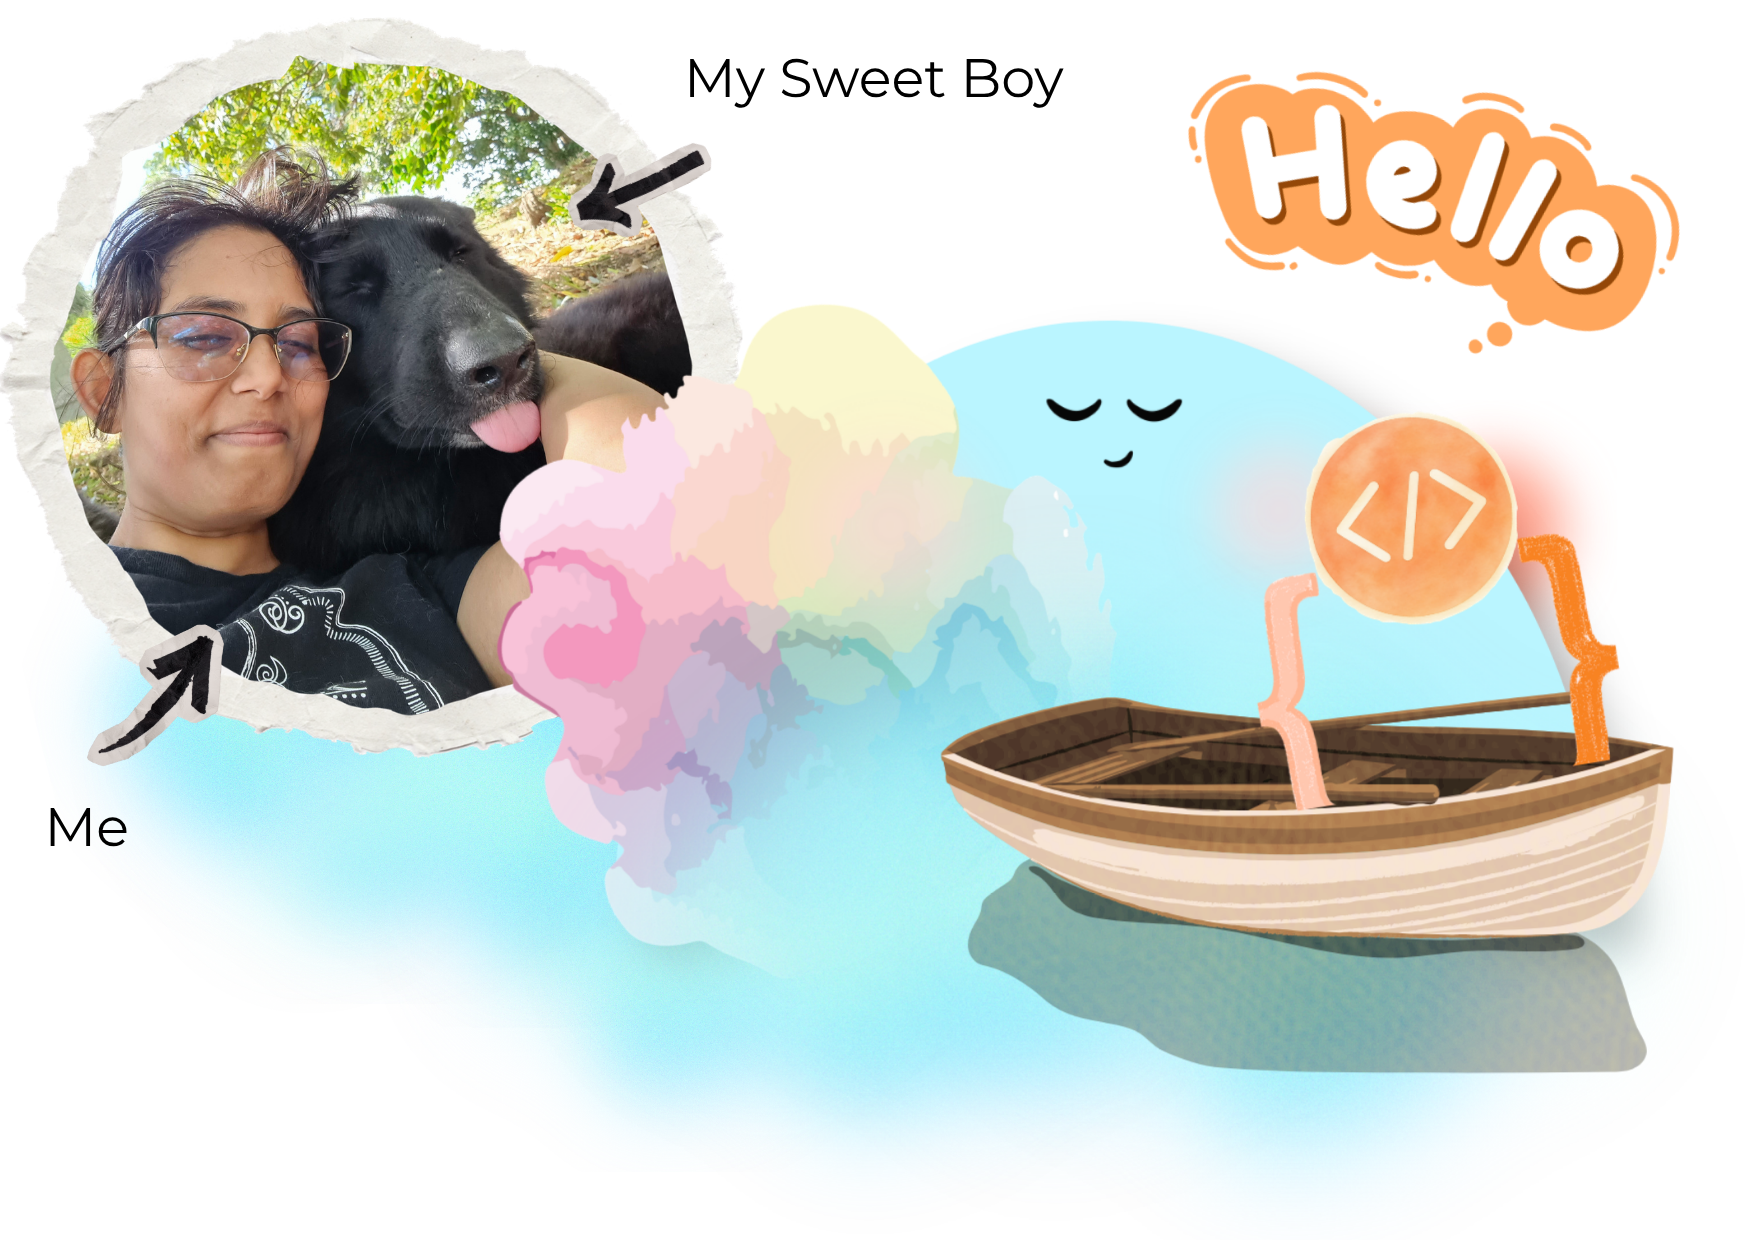
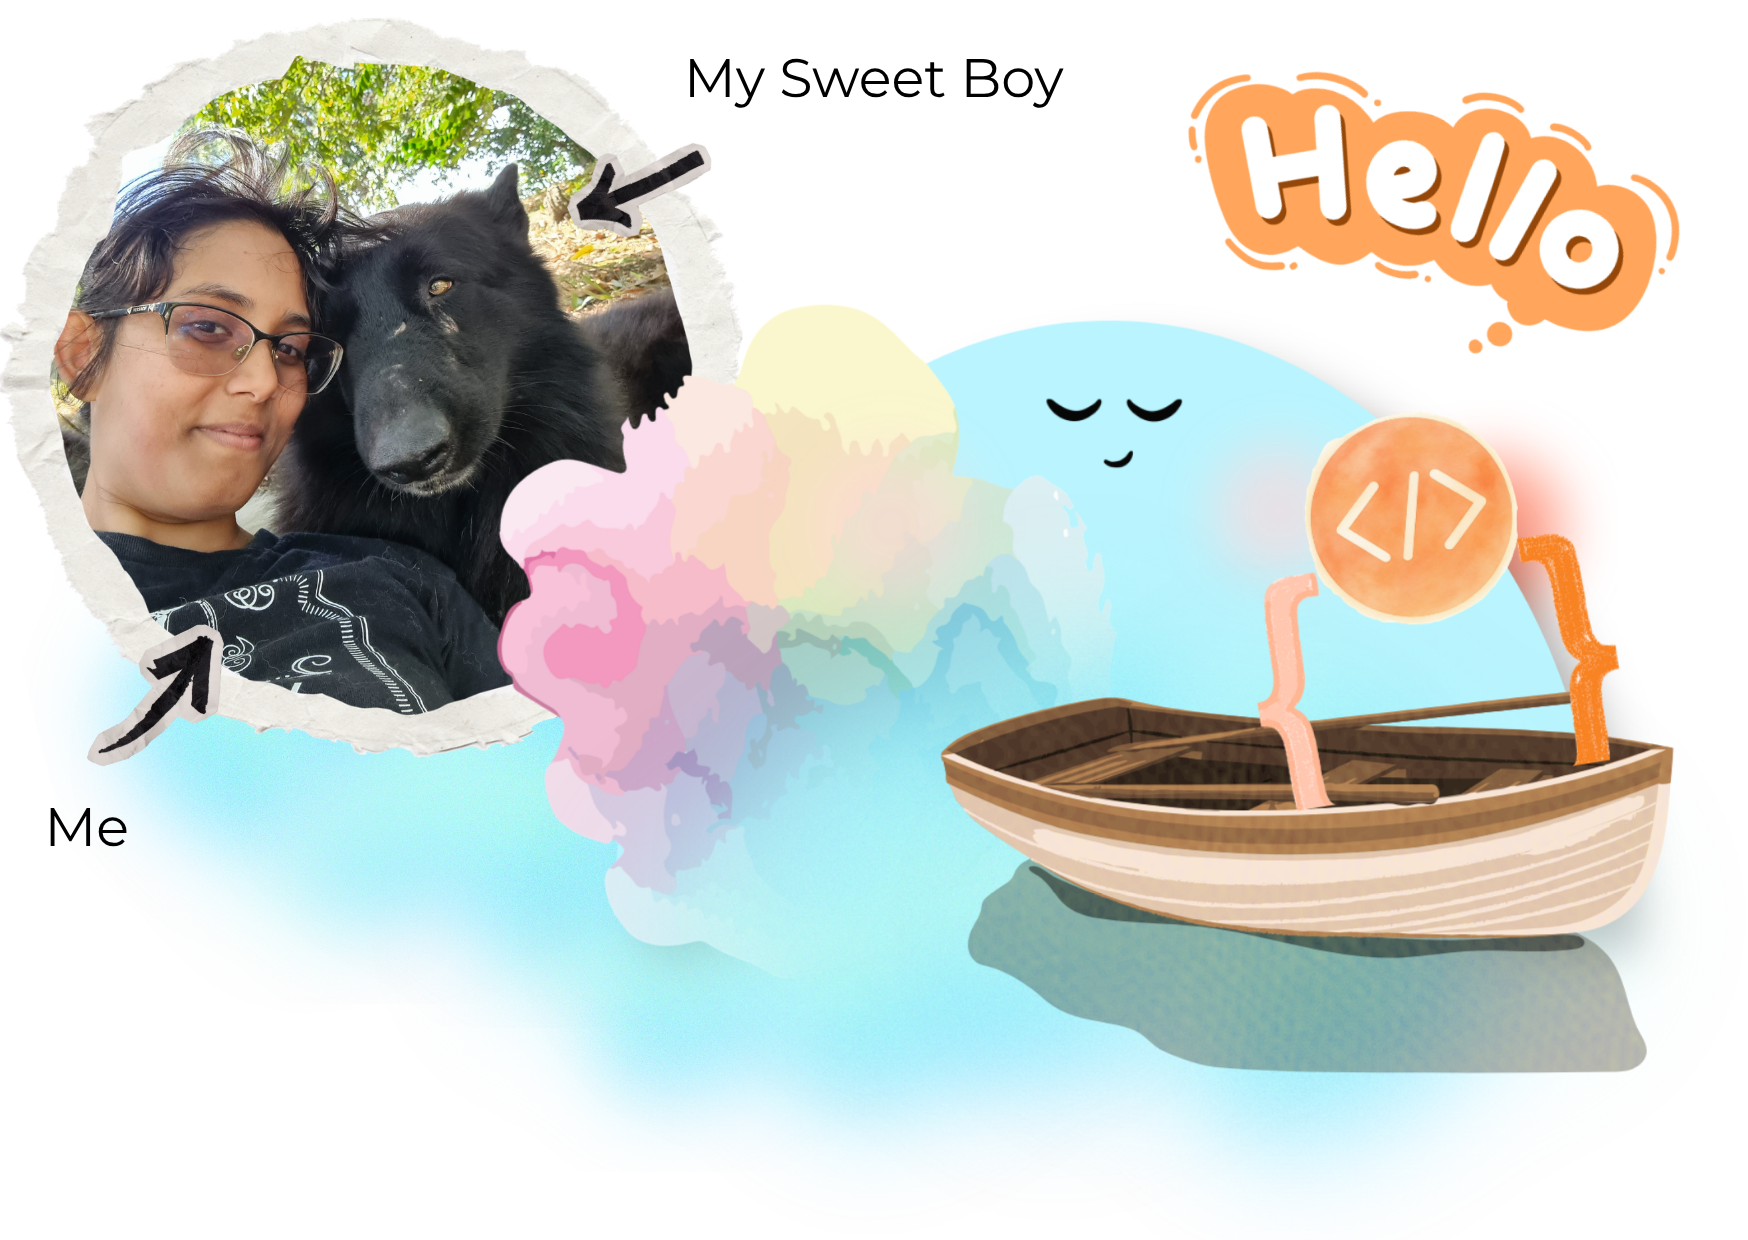
Updating the content for About

Changed region(s): [[0.0309, 0.0306, 0.4016, 0.5823]]

diff --git a/index.html b/index.html
@@ -43,23 +43,16 @@ https://github.com/hydecorp/hydejack/issues/63 -->
   </defs>
 </svg>
 
-  <div class="about-intro-action mb-1" style="text-align: center; line-height: 2.5;">
-    <span>Here is my story! Curious about my work?</span>
+  <!-- Top Call to Action -->
+  <div class="about-intro-action mb-1">
+    <span>Here is my story! Curious about my work? Take a look at my portfolio </span>
     
-    <span class="button--bubble__container">
-      <a href="/portfolio/" class="button button--bubble">
-        Take a look at my portfolio here.
+    <figure class="portfolio-btn-wrapper">
+      <a href="/portfolio/" class="portfolio-bounce-btn">
+        here!
       </a>
-      <span class="button--bubble__effect-container">
-        <span class="circle top-left"></span>
-        <span class="circle top-left"></span>
-        <span class="circle top-left"></span>
-        <span class="button effect-button"></span>
-        <span class="circle bottom-right"></span>
-        <span class="circle bottom-right"></span>
-        <span class="circle bottom-right"></span>
-      </span>
-    </span>
+      <div class="shadow"></div>
+    </figure>
   </div>
   
   <p class="mb-1">Hello! I'm Gabriela, a designer, software engineer, and storyteller residing in the gorgeous Trinidad and Tobago.</p>
@@ -76,7 +69,7 @@ https://github.com/hydecorp/hydejack/issues/63 -->
 
   <p class="mb-1">I find it wonderful being in the place where logic intersects with creativity. Thinking in terms of both user flows and the architecture of the backend system enables me to take a raw idea from the pages of a notebook and turn it into a fully functioning application.</p>
   
-  <p class="mb-1">Ever since 2019, I've had an immense pleasure working together with like-minded teams in order to produce digital products with real impact on people and planet. I have had the opportunity to design and build solutions across 8 distinct industries:</p>
+  <p class="mb-1">Since 2019, I've had an immense pleasure working together with like-minded teams in order to produce digital products with real impact on people and planet. I have had the opportunity to design and build solutions across 8 distinct industries:</p>
   
   <ul class="industry-pill-list">
     <li>Research & Development</li>
@@ -112,18 +105,18 @@ https://github.com/hydecorp/hydejack/issues/63 -->
           <span class="lines line-3"></span>
           </label>
 
-          <div class="menu-item blue"><span class="menu-text">Botany Fan</span></div>
-          <div class="menu-item green"><span class="menu-text">Psych Nerd</span></div>
-          <div class="menu-item purple"><span class="menu-text">Gentle Design</span></div>
-          <div class="menu-item orange"><span class="menu-text">Water-Baby</span></div>
-          <div class="menu-item lightblue"><span class="menu-text">T&T Creator</span></div>
-          <div class="menu-item red"><span class="menu-text">Animal Advocate</span></div>
+          <div class="menu-item blue"><span class="menu-text">Practicing Stillness</span></div>
+          <div class="menu-item green"><span class="menu-text">Empathy-Driven</span></div>
+          <div class="menu-item purple"><span class="menu-text">Consciousness Explorer</span></div>
+          <div class="menu-item orange"><span class="menu-text">Drawn to the Ocean</span></div>
+          <div class="menu-item lightblue"><span class="menu-text">Rooted in Nature</span></div>
+          <div class="menu-item red"><span class="menu-text">Voice for the Voiceless</span></div>
       </nav>
       </div>
   </div>
   <div id="magical-bean-container">
-      <p class="magical-bean-text-desktop">Hover over the bean for tidbits! ➘</p>
-      <p class="magical-bean-text-mobile" style="font-size:0.85rem;">Click on the magical bean for tidbits!</p>
+      <p class="magical-bean-text-desktop">Hover to see what grounds me ➘</p>
+      <p class="magical-bean-text-mobile" style="font-size:0.85rem;">Tap to see what grounds me</p>
   </div>
 
   <div class="bean-waves" aria-hidden="true">
@@ -152,12 +145,13 @@ https://github.com/hydecorp/hydejack/issues/63 -->
       </svg>
   </div>
 </div>
+
 <div class="mobile-only ocean-gradient-card">
   <h3>Current Adventures</h3>
   <ul>
-    <li>𓇼 Warm, intuitive UX</li>
-    <li>𓇼 Scalable backend logic</li>
-    <li>𓇼 Playful motion design</li>
+    <li>𓇼 Crafting illustrations, characters, & game worlds</li>
+    <li>𓇼 Exploring rhythm through singing & rap</li>
+    <li>𓇼 Cultivating confident, articulate communication</li>
   </ul>
 </div>
 
@@ -166,13 +160,10 @@ https://github.com/hydecorp/hydejack/issues/63 -->
     <div class="beam-content">
       <h3>Current Adventures</h3>
       <ul>
-        <li>𓇼 Warm, intuitive UX</li>
-        <li>𓇼 Scalable backend logic</li>
-        <li>𓇼 Playful motion design</li>
+        <li>𓇼 Crafting illustrations, characters, & game worlds</li>
+        <li>𓇼 Exploring rhythm through singing & rap</li>
+        <li>𓇼 Cultivating confident, articulate communication</li>
       </ul>
-
-      <h3>Exploring</h3>
-      <p>Illustration & Art ⋆ GSAP ⋆ Rive</p>
     </div>
   </div>
 

diff --git a/_sass/_about_hello.scss b/_sass/_about_hello.scss
@@ -9,6 +9,82 @@ $theme-color: rgba(22, 52, 66, 0.98); // Deep teal for the industry pills
   margin-bottom: 1rem;
 }
 
+// --- The Flexbox Container ---
+.about-intro-action {
+  display: flex;
+  align-items: center; // Vertically centers text and button perfectly!
+  flex-wrap: wrap; // Allows it to stack cleanly on tiny mobile screens
+  gap: 0.5rem; // Adds a natural space between the text and button
+  text-align: left;
+}
+
+// --- The Button & Shadow Wrapper ---
+.portfolio-btn-wrapper {
+  position: relative;
+  display: inline-block;
+  margin: 0; // Removes default browser margins from <figure>
+}
+
+// --- The Sleek Button ---
+.portfolio-bounce-btn {
+  display: inline-block;
+  font-size: 0.95rem;
+  padding: 0rem 1.25rem; 
+  background-color: #2b8a8e; // Ocean Teal
+  color: white;
+  text-decoration: none;
+  border-radius: 10px;
+  transform-origin: 100% 100%; // Anchors the tilt to the bottom right
+  
+  &:hover {
+    background-color: darken(#2b8a8e, 5%);
+    color: white;
+    // Triggers the bounce on hover
+    animation: hoverBounce 0.8s cubic-bezier(0.28, 0.84, 0.42, 1) forwards;
+  }
+}
+
+// --- The Floor Shadow ---
+.portfolio-btn-wrapper .shadow {
+  position: absolute;
+  bottom: -6px; // Sits just below the button
+  left: 10%;
+  width: 80%;
+  height: 6px;
+  background: radial-gradient(closest-side, rgba(0, 0, 0, 0.15), transparent);
+  opacity: 0; // Hidden by default
+}
+
+.portfolio-bounce-btn:hover + .shadow {
+  // Triggers the shadow pulse alongside the button bounce
+  animation: shadowPulse 0.8s cubic-bezier(0.28, 0.84, 0.42, 1) forwards;
+}
+
+// --- Pure CSS Keyframe Animations ---
+
+// Mimics the Velocity.js tilt and elastic bounce
+@keyframes hoverBounce {
+  0%   { transform: translateY(0) rotate(0deg); }
+  15%  { transform: translateY(-12px) rotate(-6deg); }
+  30%  { transform: translateY(-12px) rotate(4deg); }
+  50%  { transform: translateY(0) rotate(0deg); }
+  65%  { transform: translateY(-5px) rotate(0deg); }
+  80%  { transform: translateY(0) rotate(0deg); }
+  90%  { transform: translateY(-2px) rotate(0deg); }
+  100% { transform: translateY(0) rotate(0deg); }
+}
+
+// Pulses the shadow opacity and size as the button jumps
+@keyframes shadowPulse {
+  0%   { opacity: 0; transform: scale(1); }
+  15%  { opacity: 1; transform: scale(1.1); }
+  30%  { opacity: 1; transform: scale(1.1); }
+  50%  { opacity: 0; transform: scale(1); }
+  100% { opacity: 0; transform: scale(1); }
+}
+
+// TODO: SEE WHAT TO REMOVE FROM THIS FILE
+
 // --- Main About Section ---
 .about-container {
   width: 100%;
@@ -74,7 +150,7 @@ $theme-color: rgba(22, 52, 66, 0.98); // Deep teal for the industry pills
     flex-wrap: wrap;
     justify-content: flex-start; // Standardized from 'left'
     gap: 12px;
-    margin: 2rem 0;
+    margin: 1rem 0 2rem 0;
     padding: 0;
     list-style: none;
 
@@ -82,9 +158,9 @@ $theme-color: rgba(22, 52, 66, 0.98); // Deep teal for the industry pills
       color: #4b5563; 
       background: white;
       border: 1px solid rgba(235, 250, 252, 0.95); 
-      padding: 0.5rem 1.2rem;
-      border-radius: 2rem; 
-      font-size: 0.95rem;
+      padding: 0.3rem 1.2rem;
+      border-radius: 10px; 
+      font-size: 0.9rem;
       font-weight: 500;
       letter-spacing: 0.02em;
       transition: all 0.3s ease;

diff --git a/_sass/my-style.scss b/_sass/my-style.scss
@@ -1116,8 +1116,8 @@ hr, .hr {
 .fab-menu .menu-open-button {
   background: #EEEEEE;
   border-radius: 40px 40px 60px 60px;
-  width: 102px;
-  height: 72px;
+  width: 112px;
+  height: 82px;
   position: absolute;
   left: 50%;
   top: 90%;
@@ -1207,7 +1207,7 @@ hr, .hr {
   display: block;
   padding: 0 10px;
   font-weight: 600;
-  font-size: 0.9rem;
+  font-size: 0.8rem;
   line-height: 1.1;
   text-align: center;
   text-shadow: 1px 1px 0 rgba(0, 0, 0, 0.12);
